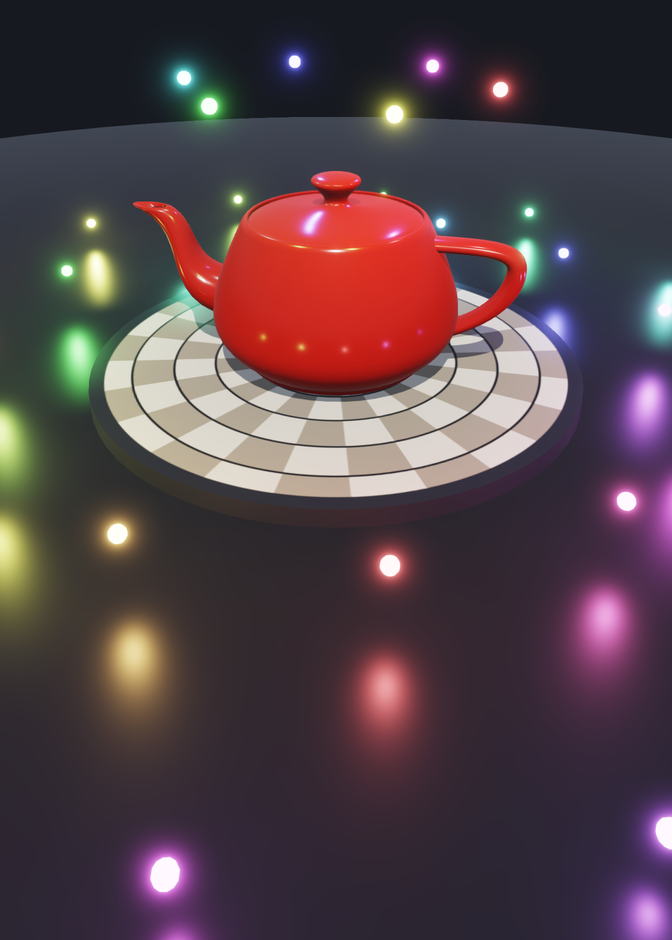
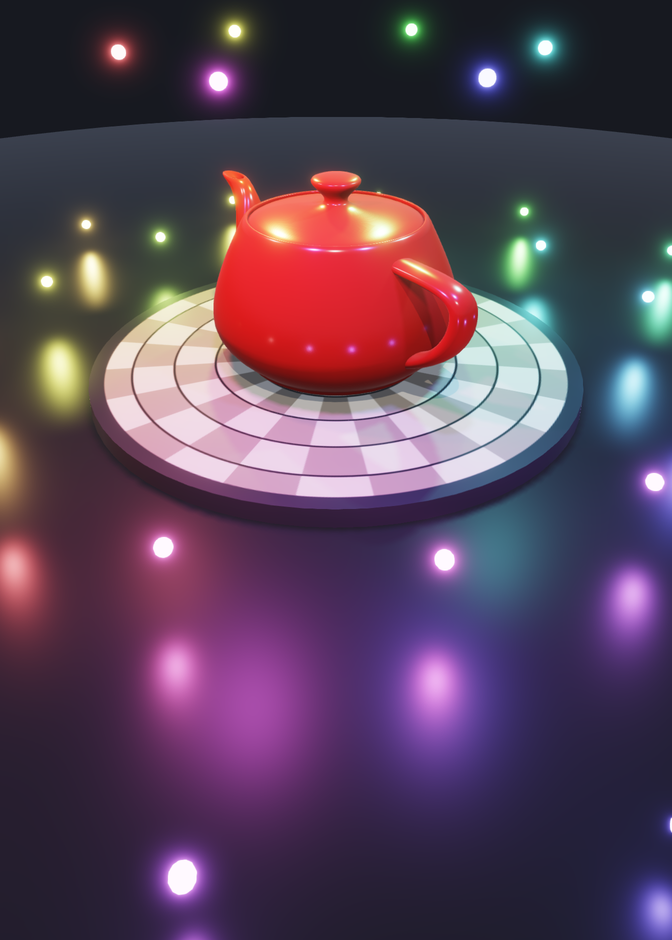
README: rendering features, screenshots from Android and the iOS simulator, point shadows on/off

diff --git a/README.md b/README.md
@@ -1,44 +1,51 @@
 # kmp-gl-renderer
 
-An OpenGL ES 3 renderer and entity-component system written in **Kotlin Multiplatform**: deferred and
-forward+ pipelines, metal/roughness PBR, shadow maps, HDR with bloom and tonemapping, FXAA and instancing.
+An OpenGL ES 3 renderer and entity-component system written in **Kotlin Multiplatform**, running on Android and iOS
+from one codebase: deferred and clustered forward+ pipelines, metal/roughness PBR, shadow maps for the key light and
+for point lights, HDR with bloom and tonemapping, FXAA and instancing.
 The engine, scene, OBJ/MTL loaders, math and the whole renderer are common Kotlin;
 Android and iOS each contribute only a thin GL binding and an asset reader.
 
 <p align="center"><img src="docs/demo.gif" width="360" alt="Utah teapot on a spinning turntable, ringed by 32 coloured point lights"></p>
 
-The demo is the Utah teapot on a spinning turntable, circled by three rings of coloured point lights (32 in all).
-Drag to orbit, pinch to zoom, double-tap to open the lid, tap to switch between the deferred and forward+ pipelines,
-long-press to pause. The lid is a child entity of the teapot, which is a child of the turntable, and each light
-is a child of its ring, so the transform hierarchy carries everything along.
+The demo is the Utah teapot on a spinning turntable, circled by three rings of coloured point lights (32 in all);
+the six above the teapot cast shadows. Drag to orbit, pinch to zoom, double-tap to open the lid,
+tap to switch between the deferred and forward+ pipelines, long-press to pause.
 
-| Deferred | Forward+ |
-|---|---|
-| <img src="docs/deferred.png" width="400"> | <img src="docs/forward-plus.png" width="400"> |
+## Screenshots
 
-The two pipelines shade with the same GLSL functions and produce the same image: on the paused demo frame above,
-the mean difference is 0.5/255 and no pixel differs by more than 36/255 (the residue is the 8-bit G-buffer).
+| Android · deferred | Android · forward+ | iOS simulator · deferred |
+|---|---|---|
+| <img src="docs/deferred.png" width="280"> | <img src="docs/forward-plus.png" width="280"> | <img src="docs/ios.png" width="280"> |
+
+The two pipelines shade with the same GLSL functions and produce the same image: on the paused frame above,
+the mean difference is 0.5/255 and no pixel differs by more than 16/255 (the residue is the 8-bit G-buffer).
+The iOS screenshot comes from CI, which builds the app, runs it in the simulator and captures a frame.
+
+**Point light shadows**, on and off, same frame. The teapot throws a shadow from each of the six lights above it,
+and the turntable shadows the floor around its rim:
+
+<img src="docs/point-shadows.png" width="840" alt="The same frame with point light shadows on (left) and off (right)">
 
 ## Rendering
 
-Each frame:
-
 ```mermaid
 flowchart LR
-    shadow["Shadow map<br/>2048² depth, key light"]
+    pshadow["Point light shadows<br/>cube maps in one atlas"]
+    shadow["Key light shadow<br/>2048² orthographic"]
     subgraph deferred["Deferred"]
         gbuf["G-buffer<br/>albedo · normal · emission · depth"]
         light["Lighting<br/>ambient + key light, full screen;<br/>one scissored pass per point light"]
         gbuf --> light
     end
-    subgraph forward["Forward+"]
-        tiles["Tile light lists<br/>32 px tiles, built on the CPU"]
-        fwd["One forward pass<br/>loops over its tile's lights"]
-        tiles --> fwd
+    subgraph forward["Forward+ (clustered)"]
+        clusters["Light clusters<br/>64 px tiles × 16 depth slices,<br/>built on the CPU"]
+        fwd["One forward pass<br/>loops over its cluster's lights"]
+        clusters --> fwd
     end
     trans["Transparent surfaces<br/>forward+, back to front"]
     post["Bloom → ACES tonemap → FXAA"]
-    shadow --> deferred & forward
+    pshadow --> shadow --> deferred & forward
     deferred & forward --> trans --> post
 ```
 
@@ -47,14 +54,24 @@ flowchart LR
   Ambient is a sky/ground gradient with Karis' analytic split-sum approximation for its specular part.
   Base-colour textures are `SRGB8_ALPHA8`, so filtering happens in linear space.
 - **Deferred** — three render targets (√albedo + metallic, normal + roughness, HDR emission) and a depth texture
-  that world positions are reconstructed from. Each point light is drawn as a full-screen triangle scissored
-  to the screen rectangle its sphere of influence projects to, added on with additive blending.
-- **Forward+** — ES 3.0 has no compute shaders, so the light grid is built on the CPU: each light's screen rectangle
-  is binned into 32-pixel tiles, and the per-tile lists (up to 63 lights) go to the GPU as an RGBA32F texture
-  that the fragment shader reads with `texelFetch`. The same pass also shades transparent surfaces in the
-  deferred path, which a G-buffer cannot hold.
-- **Shadows** — an orthographic shadow map fitted to a bounding sphere, sampled through a `sampler2DShadow`
+  that world positions are reconstructed from. Each point light is a full-screen triangle scissored to the screen
+  rectangle its sphere of influence projects to, added on with additive blending.
+- **Clustered forward+** — the view frustum is cut into 64-pixel tiles × 16 exponentially spaced depth slices, and each
+  cluster lists the lights whose screen rectangle and depth range overlap it. ES 3.0 has no compute shaders, so the
+  lists are built on the CPU (count, prefix sum, fill) and uploaded as two RGBA32F textures, a per-cluster
+  (offset, count) and one compacted index list, so no cluster has a light limit. The fragment shader finds its cluster
+  from `gl_FragCoord` and its view depth. The same pass shades transparent surfaces in the deferred path,
+  which a G-buffer cannot hold.
+- **Exact light bounds** — a light's screen rectangle is the exact bounding box of its sphere's perspective projection,
+  solved per screen axis from the lines tangent to the sphere through the eye, with the sphere's cap on the near plane
+  taking over when it crosses it. Tests check it against thousands of projected sample points.
+- **Key light shadow** — an orthographic shadow map fitted to a bounding sphere, sampled through a `sampler2DShadow`
   with hardware comparison and a 3×3 PCF kernel; slope-scaled polygon offset plus a normal offset against acne.
+- **Point light shadows** — lights flagged `castsShadows` (up to 8 visible at once) render six cube faces into one
+  depth atlas, a row per light, because ES 3.0 cannot index an array of cube samplers dynamically. The shader picks
+  the face by the major axis of the light-to-surface direction and reproduces the face's projection. Faces are rendered
+  slightly wider than 90° so 3×3 PCF never samples a neighbouring tile, and each light only draws the instances whose
+  bounding sphere reaches into its own.
 - **HDR and post-processing** — lighting accumulates in an `RGBA16F` target. Bloom is a five-level mip chain
   (soft-threshold prefilter, 4-tap downsample, tent upsample), followed by exposure, the ACES filmic curve and FXAA.
   If the GPU can't render to half-float (`EXT_color_buffer_half_float`), everything falls back to 8-bit targets
@@ -66,13 +83,15 @@ flowchart LR
 
 - **Entity-component system** — entities are bags of plain data components; systems (spin, animation,
   transform hierarchy) run in order each frame. World matrices are resolved through any depth of `Parent` links,
-  with cycle detection. Lights are components (`PointLight`), as is per-instance colour (`Tint`).
+  with cycle detection. Lights are components (`PointLight`), as is per-instance colour (`Tint`): the lid is a child of
+  the teapot, which is a child of the turntable, and each light is a child of its ring.
 - **Asset pipeline** — OBJ (polygons, all index forms, negative indices, `usemtl` splits, generated face normals)
   and MTL readers that work on plain text, so they are unit-tested without a device.
   Each mesh is uploaded to the GPU once as an interleaved VBO in a VAO.
 - **Two platforms, one GL interface** — `Gl` is a ~40-method interface implemented with `GLES30` on Android
   and Kotlin/Native's `platform.gles3` bindings on iOS. The renderer's tests run against a recording fake of it,
-  checking pass order, instancing, light culling and the half-float fallback without a GPU.
+  checking pass order, instancing, shadow budgets and caster culling, clustering and the half-float fallback
+  without a GPU.
 
 ## Architecture
 
@@ -82,7 +101,7 @@ flowchart LR
         demo["demo<br/>DemoApp · DemoScene · LidSystem"]
         ecs["ecs<br/>World · Entity · System"]
         scene["scene<br/>Transform · Parent · Spin<br/>PointLight · Tint<br/>TransformSystem · OrbitCamera"]
-        render["render<br/>Renderer · Shaders · RenderTargets<br/>LightCulling · TileGrid"]
+        render["render<br/>Renderer · Shaders · RenderTargets<br/>LightCulling · ClusterGrid"]
         assets["assets<br/>ObjParser · MtlParser"]
         gl["gl<br/>Gl interface"]
         math["math<br/>Vec3 · Mat4"]
@@ -106,12 +125,6 @@ Each frame the host calls `DemoApp.drawFrame(time)`: the `World` runs its system
 lit by every entity with a `PointLight`.
 Input is forwarded on the GL thread (`queueEvent` on Android; GLKit already draws on the main thread).
 
-## Limits
-
-Point lights don't cast shadows; only the key light does. Forward+ tiles are 2D (no depth slices), so a tile
-spanning near and far surfaces shades lights for both. Light screen rectangles come from the sphere's bounding box,
-which over-covers by up to about 1.7×. The renderer targets OpenGL ES 3.0, which Apple has deprecated in favour of Metal.
-
 ## Building
 
 **Android** — JDK 17+ and the Android SDK:
@@ -126,8 +139,7 @@ which over-covers by up to about 1.7×. The renderer targets OpenGL ES 3.0, whic
 cd iosApp && xcodegen generate && open GLRenderer.xcodeproj
 ```
 
-The Xcode build runs Gradle to produce the Kotlin `Engine` framework. Apple has deprecated OpenGL ES,
-but it still ships and runs on devices and in the simulator.
+The Xcode build runs Gradle to produce the Kotlin `Engine` framework.
 
 **Tests** — the engine tests run on the JVM and on the iOS simulator:
 
@@ -138,7 +150,13 @@ but it still ships and runs on devices and in the simulator.
 
 On Windows and Linux the iOS sources are still type-checked (`kotlin.native.enableKlibsCrossCompilation`);
 only linking the framework needs a Mac. CI builds both apps, runs the tests on both platforms and
-uploads a screenshot from the iOS simulator.
+captures a frame from the iOS simulator.
+
+## Limits
+
+Point light shadows cost six extra passes per light, so they are opt-in per light and capped at eight visible at once.
+The renderer targets OpenGL ES 3.0, which Apple has deprecated in favour of Metal; it still ships and runs on devices
+and in the simulator.
 
 ## Assets
 
@@ -152,7 +170,8 @@ texture is drawn in code.
 Started in 2020 as an experiment in sharing OpenGL code through Kotlin Multiplatform, and grew an ECS and
 a model viewer in 2021–22. Rebuilt in 2026 on current Kotlin, AGP and Gradle: GPU buffers uploaded once
 instead of every frame, ES 3 throughout, a pure-Kotlin matrix library, a real iOS backend, tests and CI;
-then the deferred and forward+ pipelines, PBR, shadows, HDR post-processing and instancing.
+then the deferred and clustered forward+ pipelines, PBR, key and point light shadows, HDR post-processing
+and instancing.
 
 ## License
 
